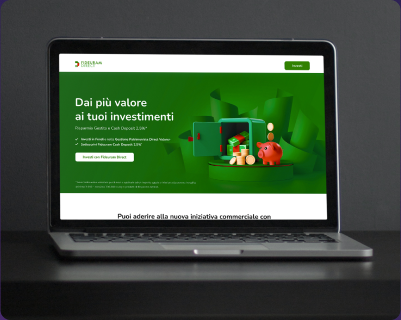
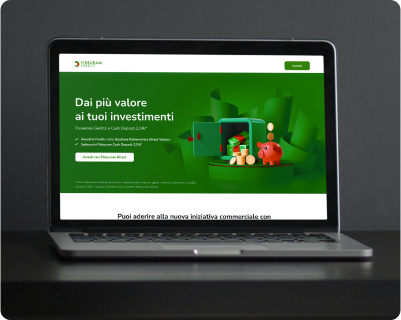
change img and add style for havering into carousel

Changed region(s): [[0.9875, 0.0, 1.0, 1.0], [0.0, 0.9688, 0.0299, 1.0], [0.0, 0.0, 0.0299, 0.0312]]

diff --git a/src/components/Carousel/Carousel.jsx b/src/components/Carousel/Carousel.jsx
@@ -1,22 +1,35 @@
 import React from 'react';
 // import PropTypes from 'prop-types';
+// import { useNavigate } from 'react-router';
 import Flickity from 'react-flickity-component';
 import Fideuram from '../../assets/img/carousel-clients/Fideuram.png';
-import MacBook from '../../assets/img/carousel-clients/MacBook.png';
+import Edenred from '../../assets/img/carousel-clients/Edenred.png';
 import Wonders from '../../assets/img/carousel-clients/Wonders.png';
 import './Carousel.scss';
 import './flickity.scss';
 
 const Carousel = () => {
+  // const history = useNavigate();
+
   return (
     <div className="carousel-container">
       <span className="carousel-title">
         My recent <span className="carousel-title-beauty">&nbsp;works</span>
       </span>
       <Flickity>
-        <img className="carousel-img" src={Fideuram} />
-        <img className="carousel-img" src={MacBook} />
-        <img className="carousel-img" src={Wonders} />
+        {/* <img className="carousel-img" src={Fideuram} onClick={() => history('/')} /> */}
+        <div className="carousel-wrap-img">
+          <img className="carousel-img" src={Fideuram} />
+          <p className="carousel-img__description">Fideuram</p>
+        </div>
+        <div className="carousel-wrap-img">
+          <img className="carousel-img" src={Wonders} />
+          <p className="carousel-img__description">ASPI x Wonders</p>
+        </div>
+        <div className="carousel-wrap-img">
+          <img className="carousel-img" src={Edenred} />
+          <p className="carousel-img__description">Edenred</p>
+        </div>
       </Flickity>
     </div>
   );

diff --git a/src/components/Carousel/Carousel.scss b/src/components/Carousel/Carousel.scss
@@ -20,7 +20,7 @@
   display: flex;
   justify-content: center;
   flex-wrap: wrap;
-  color: #DEDEDE;
+  color: #dedede;
   font-family: Playfair Display;
   font-size: 40px;
   font-style: normal;
@@ -36,6 +36,40 @@
   -webkit-text-fill-color: transparent;
 }
 
-.carousel-img {
-  padding: 20px;
+
+.carousel-wrap-img {
+  position: relative;
+
+  .carousel-img__description {
+    position: absolute;
+    top: 20px;
+    bottom: 20px;
+    left: 20px;
+    right: 20px;
+    background: rgba(134, 128, 154, 0.60);
+    border-radius: 10px;
+    text-align: center;
+    line-height: 20rem;
+    word-break: break-word;
+    color: #121212;
+    font-family: Playfair Display;
+    font-size: 40px;
+    font-weight: 900;
+    opacity: 0;
+    
+    &:hover {
+      opacity: 1;
+    }
+    &:active {
+      opacity: 1;
+    }
+  }
+  
+  .carousel-img {
+    padding: 20px;
+  
+    &:hover {
+      opacity: .5;
+    }
+  }
 }
